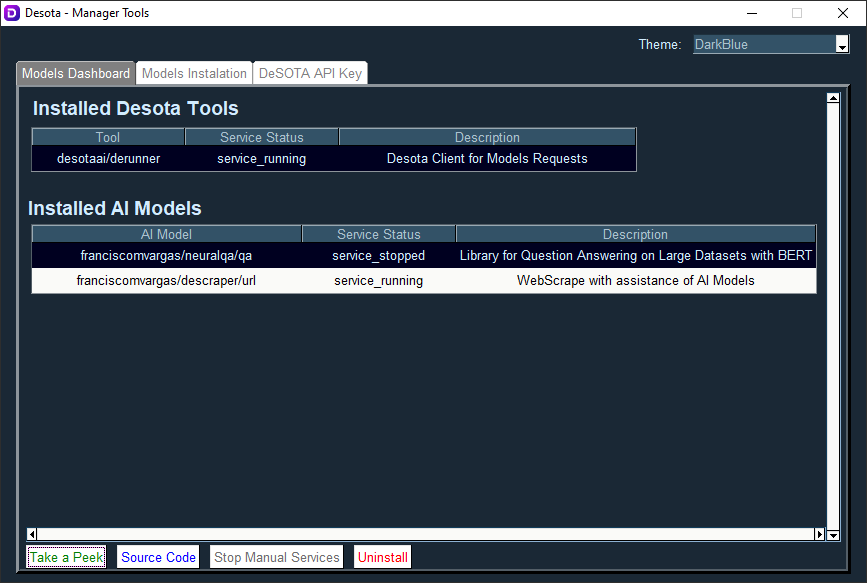
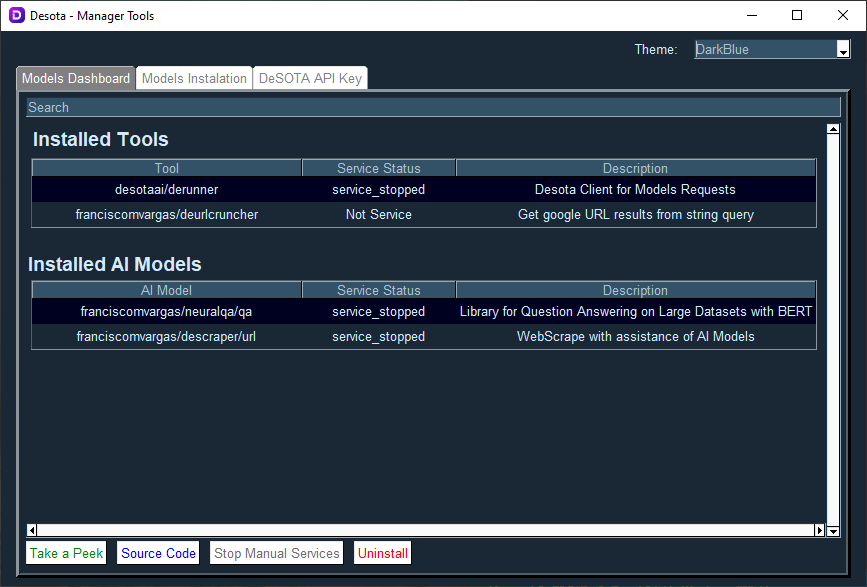
GUI Upgrades - Documentation

diff --git a/README.md b/README.md
@@ -1,4 +1,17 @@
 <details open>
+   <summary><h1>About DeManagerTools</h1></summary>
+
+![DeSOTA Welcome](Assets/Logo_DeSota.png)
+
+This repository purpose is:
+ - Manage DeSOTA [services]((https://github.com/DeSOTAai/DeRunner/blob/main/Assets/latest_services.config.yaml)):
+    - Install;
+    - Upgrade;
+    - Uninstall.
+ - Connect with AI Models multiple dedicated User Interfaces;
+ - Create DeSOTA API Key.
+
+<details open>
    <summary><h1>Instalation</h1></summary>
 
 [![Install DeManagerTools](https://img.shields.io/static/v1?label=Desota%20-%20Manager%20Tools&message=Install&color=blue&logo=windows)](https://minhaskamal.github.io/DownGit/#/home?url=https://github.com/DeSOTAai/DeManagerTools/blob/main/executables/Windows/demanagertools.install.bat)
@@ -9,26 +22,22 @@
 1. Uncompress File
 2. Run .BAT file
 </details>
-
-<details open>
-   <summary><h1>About DeManagerTools</h1></summary>
-
-This repository purpose is:
- - Manage DeSOTA [services]((https://github.com/DeSOTAai/DeRunner/blob/main/Assets/latest_services.config.yaml)):
-    - Install;
-    - Upgrade;
-    - Uninstall.
- - Connect with AI Models multiple dedicated User Interfaces;
- - Create DeSOTA API Key.
  
 <details open>
-   <summary><h2>Install / Upgrade Services</h2></summary>
+   <summary><h2>Install / Upgrade Servicesand Tools</h2></summary>
 
 ![Install Tab](Assets/readme_files/readme_install_tab.png)
 
-- **Desota Tools Services**: This section has `DeSOTA tools`;
-- **Available Models** - This section has the latest version of uninstalled `DeSOTA AI Models`;
-- **Upgradable Services Available** - This section has the upgrades available for `DeSOTA tools` and `DeSOTA AI Models`. 
+ ### Sections
+
+- **Available Tools**: This section has `DeSOTA Tools` (eg. [DeRunner](https://github.com/desotaai/derunner), [DeUrlCruncher](https://github.com/franciscomvargas/DeUrlCruncher));
+- **Available AI Models** - This section has the latest version of uninstalled `DeSOTA AI Models` (eg. [DeScraper](https://github.com/franciscomvargas/descraper), [NeuralQA](https://github.com/franciscomvargas/neuralqa));
+- **Available Upgrades** - This section has the upgrades available for `DeSOTA Tools` and `DeSOTA AI Models`. 
+
+ ### Buttons
+
+ - **Check 4 Upgrades**: Update [DeSOTA Services/Tools Params](#desota-servicestools-params).
+ - **Start Instalation**: Install selected `DeSOTA Tools` / `DeSOTA AI Models`.
 
 </details>
 
@@ -39,15 +48,18 @@ This repository purpose is:
 
  ### Sections
 
-- **Installed Desota Tools**: This section has the `DeSOTA tools`;
-- **Installed AI Models** - This section has the  `DeSOTA AI Models`;
+- **Installed Tools**: Monitor the installed `DeSOTA Tools`;
+- **Installed AI Models** - Monitor the installed  `DeSOTA AI Models`;
 
  ### Buttons
 
- - **Take a Peek**: Open selected `DeSOTA AI Models` User Interface if exist. (If model service doesn't run constantly is required to stop service after closing the UI by pressing the button *Stop Manual Services*);
+ - **Take a Peek**: Open selected `DeSOTA AI Models` / `DeSOTA Tools` UI (User Interface) if exist;
+   - **Note**: If service of model / tool <ins>don't run constantly</ins> is required to stop service after closing the UI:
+      - by pressing the button `Stop Manual Services`
+      - by closing the APP
  - **Source Code**: Open in the browser the selected services repository;
- - **Stop Manual Services**: Stop selected Services that don't run constantly after *Take a Peek*;
- - **Uninstall**: Uninstall selected services.
+ - **Stop Manual Services**: Stop all started `DeSOTA AI Models` / `DeSOTA Tools` that <ins>don't run constantly</ins> after `Take a Peek`;
+ - **Uninstall**: Uninstall selected `DeSOTA Tools` / `DeSOTA AI Models`.
 
 </details>
 
@@ -64,9 +76,9 @@ This repository purpose is:
 
   ![Upgrade APP](Assets/readme_files/upgrade_app.PNG)
 
- ## Latest DeSOTA Services
+ ## DeSOTA Services/Tools Params
 
-  The latest DeSOTA Services are available [here](https://github.com/DeSOTAai/DeRunner/blob/main/Assets/latest_services.config.yaml)
+  The latest DeSOTA Services/Tools Params are available [here](https://github.com/DeSOTAai/DeRunner/blob/main/Assets/latest_services.config.yaml).
   
 </details>
 </details>
